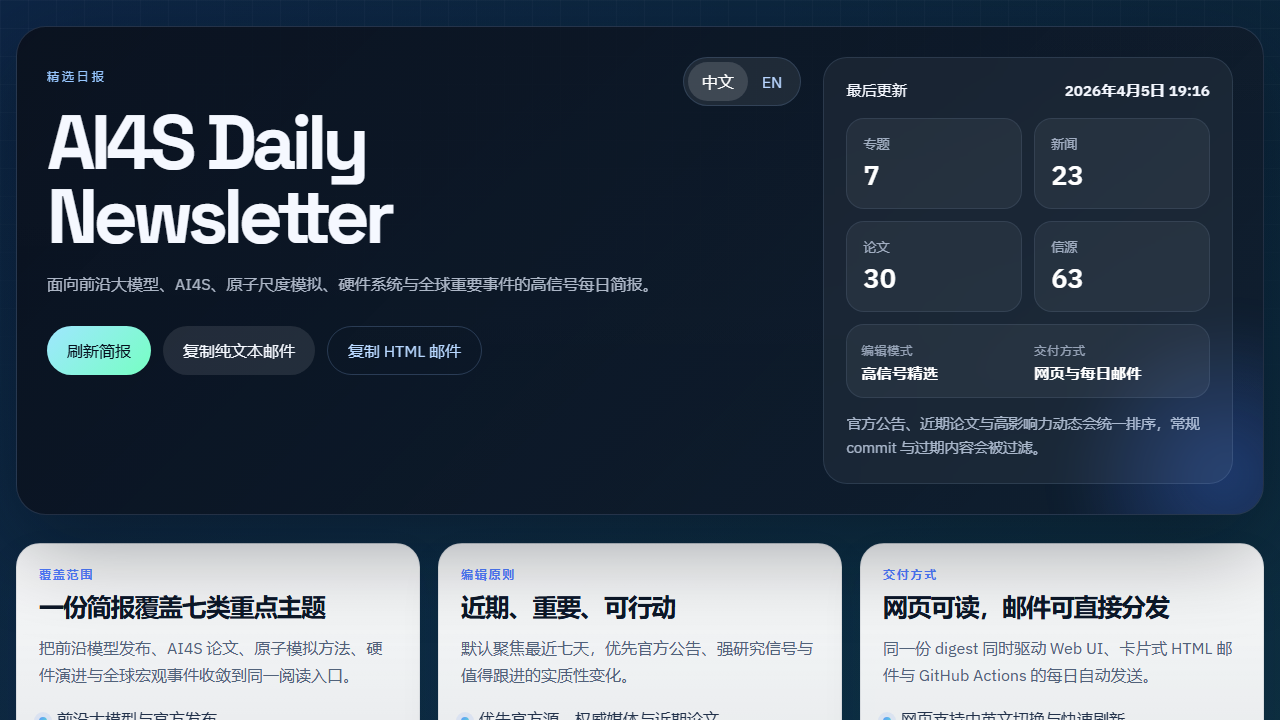
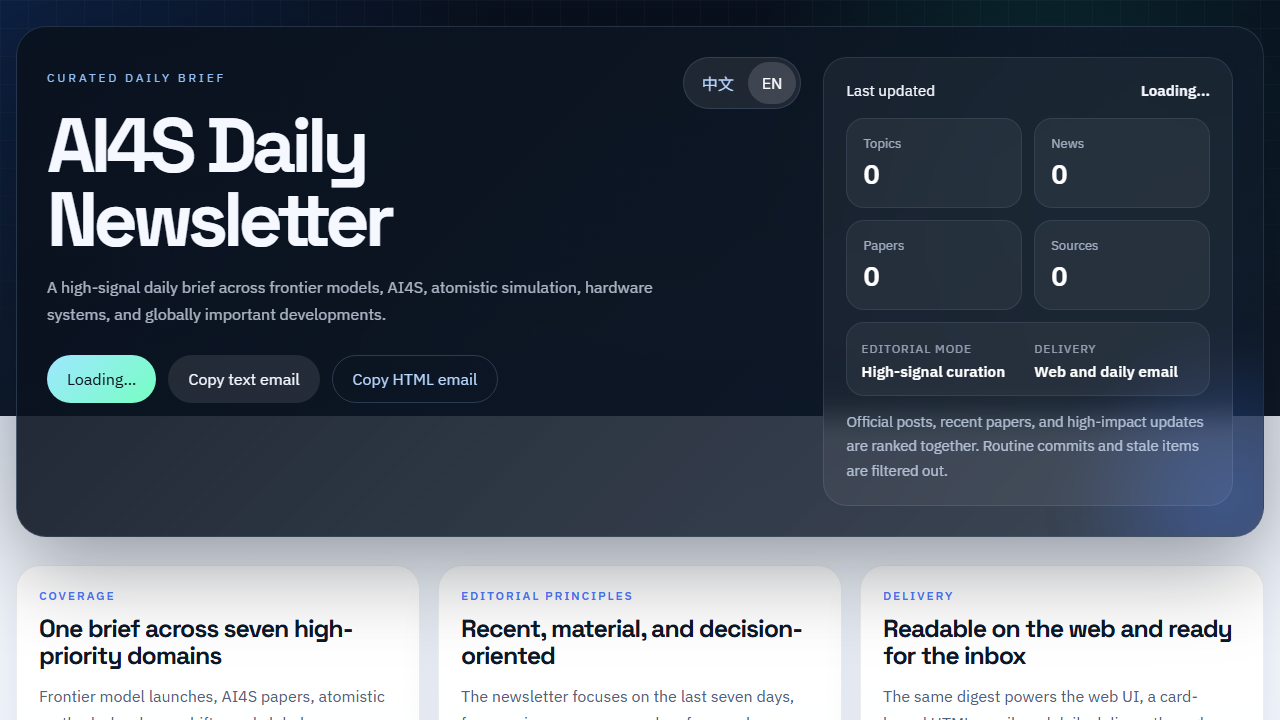
Align README preview with English UI

diff --git a/public/app.js b/public/app.js
@@ -207,7 +207,19 @@ const SOURCE_SHORT_LABELS = {
   "Psi-k Announcements": "Psi-k"
 };
 
-let currentLocale = window.localStorage.getItem("digest-locale") === "en" ? "en" : "zh";
+function resolveInitialLocale() {
+  const params = new URLSearchParams(window.location.search);
+  const requestedLocale = params.get("locale");
+
+  if (requestedLocale === "en" || requestedLocale === "zh") {
+    window.localStorage.setItem("digest-locale", requestedLocale);
+    return requestedLocale;
+  }
+
+  return window.localStorage.getItem("digest-locale") === "en" ? "en" : "zh";
+}
+
+let currentLocale = resolveInitialLocale();
 let currentPayload = null;
 
 function getCopy() {

diff --git a/README.md b/README.md
@@ -6,7 +6,7 @@ AI4S Daily Newsletter is a curated daily brief for frontier models, AI4S, atomis
 
 ![AI4S Daily Newsletter web UI](docs/images/web-home.png)
 
-The web experience is built as a readable daily publication, with bilingual topic cards, high-signal framing, and a matching email surface.
+The preview uses the English view for consistency with this README. The web UI itself supports both English and Chinese with the same topic structure and email workflow.
 
 ## What It Covers
 
